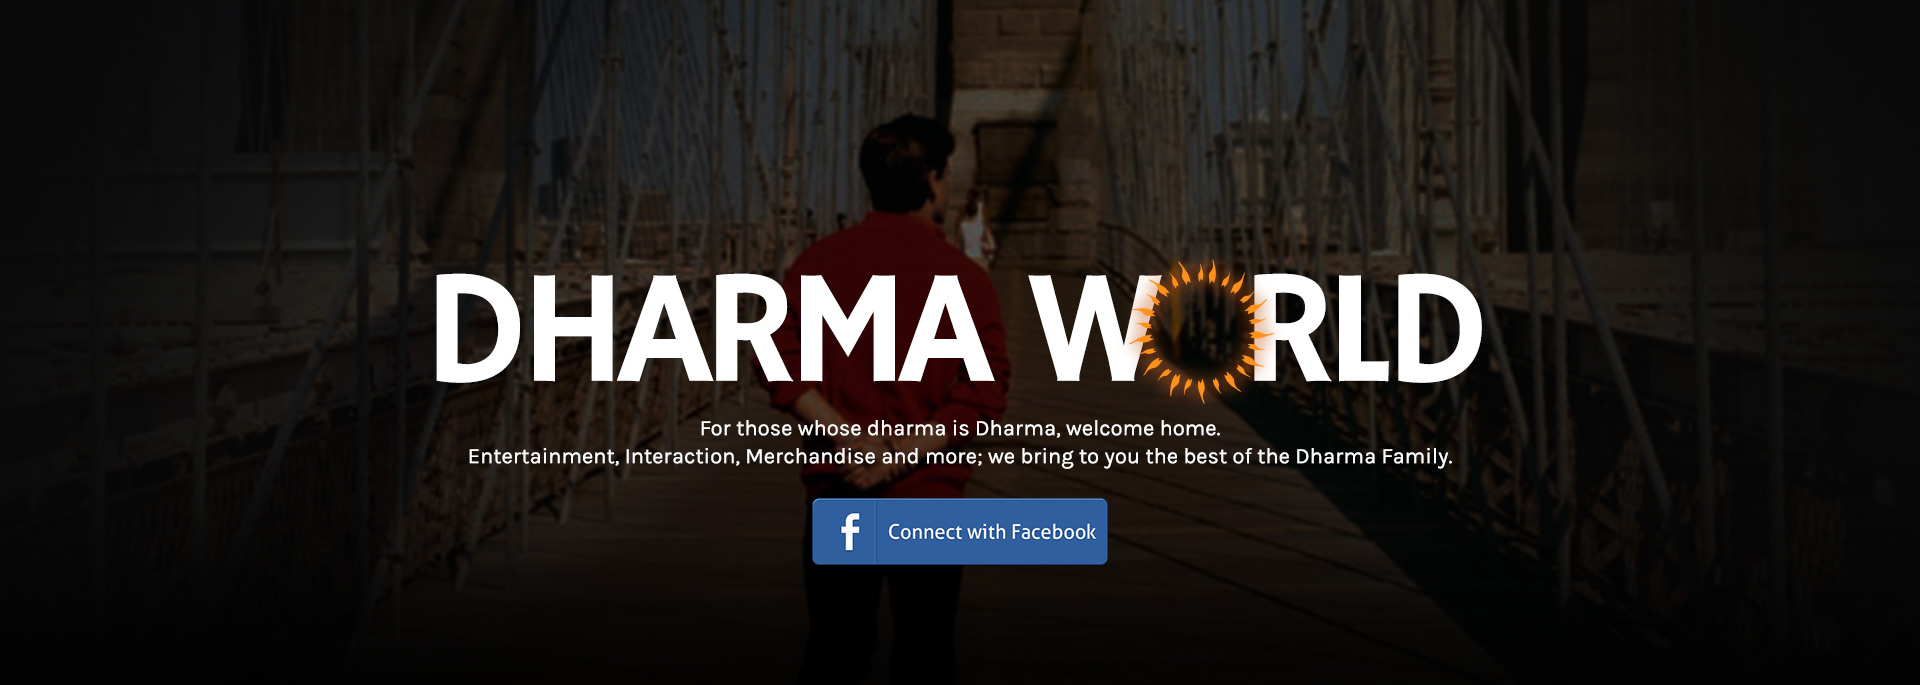
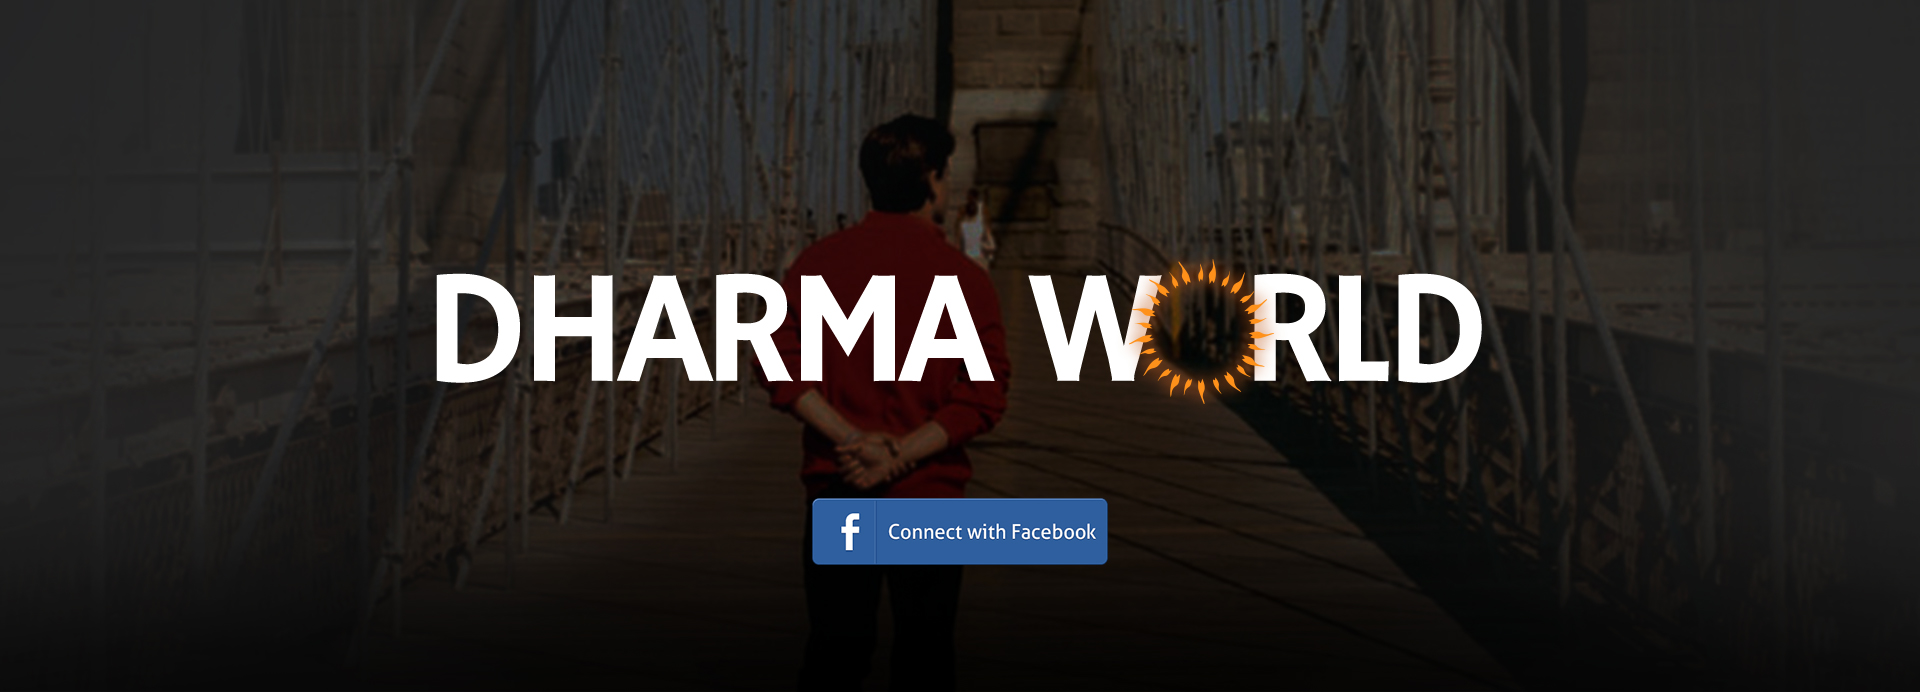
some changes

diff --git a/views/content/dharma-world.html b/views/content/dharma-world.html
@@ -5,8 +5,8 @@
       <div class="dharma-word dh-absulate middle mob-mt-20" >
         <img src="img/dharma-word.png" alt="Dharma Productions" class="img-responsive">
         <div class="text-center f18 color-white mob-font-10 mob-web-font-10">
-          <p class="margin0">For those whose dharma is Dharma, welcome home.</p>
-  <p>Entertainment, Interaction, Merchandise and more; we bring to you the best of the Dharma Family.</p>
+          <!-- <p class="margin0">For those whose dharma is Dharma, welcome home.</p>
+  <p>Entertainment, Interaction, Merchandise and more; we bring to you the best of the Dharma Family.</p> -->
   <div class="fb-btn mt15">
     <button type="button" name="button"><i class="fa fa-facebook"></i>Connect With Facebook</button>
   </div>
